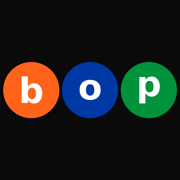
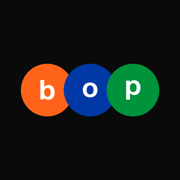
Landing polish: generic hero/receipt content, overlapping-bullet mark everywhere, no em dashes
Hero and receipt cards no longer reference real restaurants (Via Carota,
Grand Banks, Dante, Bar Pisellino) or a real handle (@zoe) since they are
marketing mockups, not real user data. Now a generic 'your saturday' by
@you with coffee/walk/rooftop/music stops. The live community section
(real @zoe bops) is untouched since that is genuine user content.

Regenerated icon-512, icon-180, and og-icon from the overlapping bullet
wordmark used in the site nav (previously the icons used an older
spaced-out-circle mark). Also staged the same mark as the iOS AppIcon
source file for the next app build.

Replaced remaining em dashes in titles and legal-page copy across the
site with colons or plain periods.

Changed region(s): [[0.0, 0.3333, 1.0, 0.6667], [0.4444, 0.3333, 0.5556, 0.3611]]

diff --git a/index.html b/index.html
@@ -4,9 +4,9 @@
 <meta charset="UTF-8">
 <meta name="viewport" content="width=device-width, initial-scale=1, viewport-fit=cover">
 <meta name="theme-color" content="#0a0a0a">
-<title>bop — your day, stop by stop</title>
+<title>bop: your day, stop by stop</title>
 <meta name="description" content="Bop is how New York plans a great day out. Build it stop by stop, make it walkable, share the plan as one link. Then live it and walk away with the receipt.">
-<meta property="og:title" content="bop — your day, stop by stop">
+<meta property="og:title" content="bop: your day, stop by stop">
 <meta property="og:description" content="Plan the perfect NYC day, live it, and walk away with the receipt.">
 <meta property="og:image" content="https://joinbop.com/og-icon.png">
 <meta property="og:url" content="https://joinbop.com">
@@ -169,27 +169,27 @@ footer .links{display:flex;gap:22px}
   </div>
 
   <div class="plancard" aria-hidden="true">
-    <div class="t">the via carota play</div>
-    <div class="m">west village · by @zoe · 1.1 mi walk</div>
+    <div class="t">your saturday</div>
+    <div class="m">west village · by @you · 1.1 mi walk</div>
     <div class="stop">
       <div class="railcol"><span class="snum" style="background:var(--orange)">1</span><span class="rail"></span></div>
-      <div><div class="n">oysters on the water</div><div class="p">📍 grand banks</div></div>
-      <span class="timechip mono">3:00 PM</span>
+      <div><div class="n">coffee run</div><div class="p">📍 your favorite cafe</div></div>
+      <span class="timechip mono">10:00 AM</span>
     </div>
     <div class="stop">
       <div class="railcol"><span class="snum" style="background:var(--blue)">2</span><span class="rail"></span></div>
-      <div><div class="n">martini happy hour</div><div class="p">📍 dante</div></div>
-      <span class="timechip mono">5:00 PM</span>
+      <div><div class="n">afternoon walk</div><div class="p">📍 the park</div></div>
+      <span class="timechip mono">1:00 PM</span>
     </div>
     <div class="stop">
       <div class="railcol"><span class="snum" style="background:var(--green)">3</span><span class="rail"></span></div>
-      <div><div class="n">spritz while you wait</div><div class="p">📍 bar pisellino</div></div>
+      <div><div class="n">golden hour</div><div class="p">📍 the rooftop</div></div>
       <span class="timechip mono">6:00 PM</span>
     </div>
     <div class="stop">
       <div class="railcol"><span class="snum" style="background:var(--yellow)">4</span></div>
-      <div><div class="n">dinner</div><div class="p">📍 via carota</div></div>
-      <span class="timechip mono">7:30 PM</span>
+      <div><div class="n">live music</div><div class="p">📍 the venue</div></div>
+      <span class="timechip mono">9:00 PM</span>
     </div>
     <div class="planbtns">
       <span class="go">start this bop</span>
@@ -241,11 +241,11 @@ footer .links{display:flex;gap:22px}
     </div>
     <div class="rcard" aria-hidden="true">
       <div class="rhead mono"><span class="l">BOP RECEIPT</span><span class="r">SAT 07.18</span></div>
-      <div class="t">the via carota play</div>
-      <div class="rline"><span class="n">oysters on the water</span><span class="dots"></span><span class="stamp mono">3:04 PM</span></div>
-      <div class="rline"><span class="n">martini happy hour</span><span class="dots"></span><span class="stamp mono">5:12 PM</span></div>
-      <div class="rline"><span class="n">spritz while you wait</span><span class="dots"></span><span class="stamp mono">6:01 PM</span></div>
-      <div class="rline"><span class="n">dinner</span><span class="dots"></span><span class="stamp mono">7:41 PM</span></div>
+      <div class="t">your saturday</div>
+      <div class="rline"><span class="n">coffee run</span><span class="dots"></span><span class="stamp mono">10:04 AM</span></div>
+      <div class="rline"><span class="n">afternoon walk</span><span class="dots"></span><span class="stamp mono">1:00 PM</span></div>
+      <div class="rline"><span class="n">golden hour</span><span class="dots"></span><span class="stamp mono">6:12 PM</span></div>
+      <div class="rline"><span class="n">live music</span><span class="dots"></span><span class="stamp mono">9:20 PM</span></div>
       <div class="rfoot">
         <div>
           <div class="k mono">DAY COMPLETE</div>

diff --git a/privacy.html b/privacy.html
@@ -3,7 +3,7 @@
 <head>
 <meta charset="UTF-8">
 <meta name="viewport" content="width=device-width, initial-scale=1">
-<title>Privacy Policy — bop</title>
+<title>Privacy Policy: bop</title>
 <link rel="icon" type="image/png" href="icon-512.png">
 <style>
   :root{--ink:#0a0a0a;--dim:#555;--line:#e5e5e7}
@@ -25,15 +25,15 @@
 
 <h2>What we collect</h2>
 <ul>
-  <li><b>Account info</b> — if you create an account, your email address and a hashed password.</li>
-  <li><b>Your bops</b> — the day plans, stops, notes, ratings, and photos you create. Photos stay on your device unless a future feature syncs them.</li>
-  <li><b>Usage data</b> — basic, privacy-friendly analytics about how the app is used (e.g. pages viewed, bops created or shared) and standard device/log information.</li>
+  <li><b>Account info</b>: if you create an account, your email address and a hashed password.</li>
+  <li><b>Your bops</b>: the day plans, stops, notes, ratings, and photos you create. Photos stay on your device unless a future feature syncs them.</li>
+  <li><b>Usage data</b>: basic, privacy-friendly analytics about how the app is used (e.g. pages viewed, bops created or shared) and standard device/log information.</li>
 </ul>
 
 <h2>How we use it</h2>
 <ul>
-  <li>To provide the service — save your bops, sync them across your devices, and let you share or publish them.</li>
-  <li>To send service emails — a welcome email, and password-reset emails when you request one. We do not send marketing emails without your consent.</li>
+  <li>To provide the service: save your bops, sync them across your devices, and let you share or publish them.</li>
+  <li>To send service emails: a welcome email, and password-reset emails when you request one. We do not send marketing emails without your consent.</li>
   <li>To understand and improve how bop works.</li>
 </ul>
 
@@ -43,10 +43,10 @@
 <h2>Who we share it with</h2>
 <p>We do not sell your personal data. We use trusted service providers to run bop, who process data only on our behalf:</p>
 <ul>
-  <li><b>Supabase</b> — database, authentication, and storage.</li>
-  <li><b>Resend</b> — sending account emails.</li>
-  <li><b>PostHog</b> — product analytics.</li>
-  <li><b>Netlify</b> — website hosting.</li>
+  <li><b>Supabase</b>: database, authentication, and storage.</li>
+  <li><b>Resend</b>: sending account emails.</li>
+  <li><b>PostHog</b>: product analytics.</li>
+  <li><b>Netlify</b>: website hosting.</li>
 </ul>
 
 <h2>Cookies &amp; local storage</h2>

diff --git a/terms.html b/terms.html
@@ -3,7 +3,7 @@
 <head>
 <meta charset="UTF-8">
 <meta name="viewport" content="width=device-width, initial-scale=1">
-<title>Terms of Service — bop</title>
+<title>Terms of Service: bop</title>
 <link rel="icon" type="image/png" href="icon-512.png">
 <style>
   :root{--ink:#0a0a0a;--dim:#555;--line:#e5e5e7}
@@ -40,7 +40,7 @@
 <p>Don't use bop to post unlawful, hateful, harassing, infringing, or deceptive content, to spam, or to interfere with the service or other users. We may remove content or suspend accounts that violate these terms.</p>
 
 <h2>Third-party places &amp; links</h2>
-<p>Bops may reference real venues and external links. bop isn't affiliated with those businesses and isn't responsible for them. We don't post anything to Instagram, TikTok, or other platforms on your behalf — sharing happens through your device when you choose to share.</p>
+<p>Bops may reference real venues and external links. bop isn't affiliated with those businesses and isn't responsible for them. We don't post anything to Instagram, TikTok, or other platforms on your behalf. Sharing happens through your device when you choose to share.</p>
 
 <h2>Disclaimer &amp; liability</h2>
 <p>The service is provided "as is," without warranties of any kind. To the maximum extent permitted by law, bop isn't liable for any indirect, incidental, or consequential damages arising from your use of the service.</p>

diff --git a/b.html b/b.html
@@ -165,7 +165,7 @@ function render(row, stats, rsvps, bopId){
   const by = row.handle
     ? `by <a href="/u/${encodeURIComponent(row.handle.replace("@",""))}">${esc(row.handle)}</a>` : "";
   const where = [row.neighborhood, row.city].filter(Boolean).join(", ") || d.area || "";
-  document.title = `${d.title||"A bop"} — bop`;
+  document.title = `${d.title||"A bop"} · bop`;
 
   let html = `<div class="bophead">
     <div class="emoji">${esc(d.emoji||"🌆")}</div>

diff --git a/u.html b/u.html
@@ -118,7 +118,7 @@ async function load(){
   const totSaves = (stats||[]).reduce((a,s)=>a+(s.saves||0),0);
   const totDones = (stats||[]).reduce((a,s)=>a+(s.dones||0),0);
   const initial = handle.replace("@","").slice(0,1).toUpperCase();
-  document.title = `${handle} — bop`;
+  document.title = `${handle} · bop`;
 
   let html = `<div class="profhead">
       <span class="avatar">${esc(initial)}</span>
